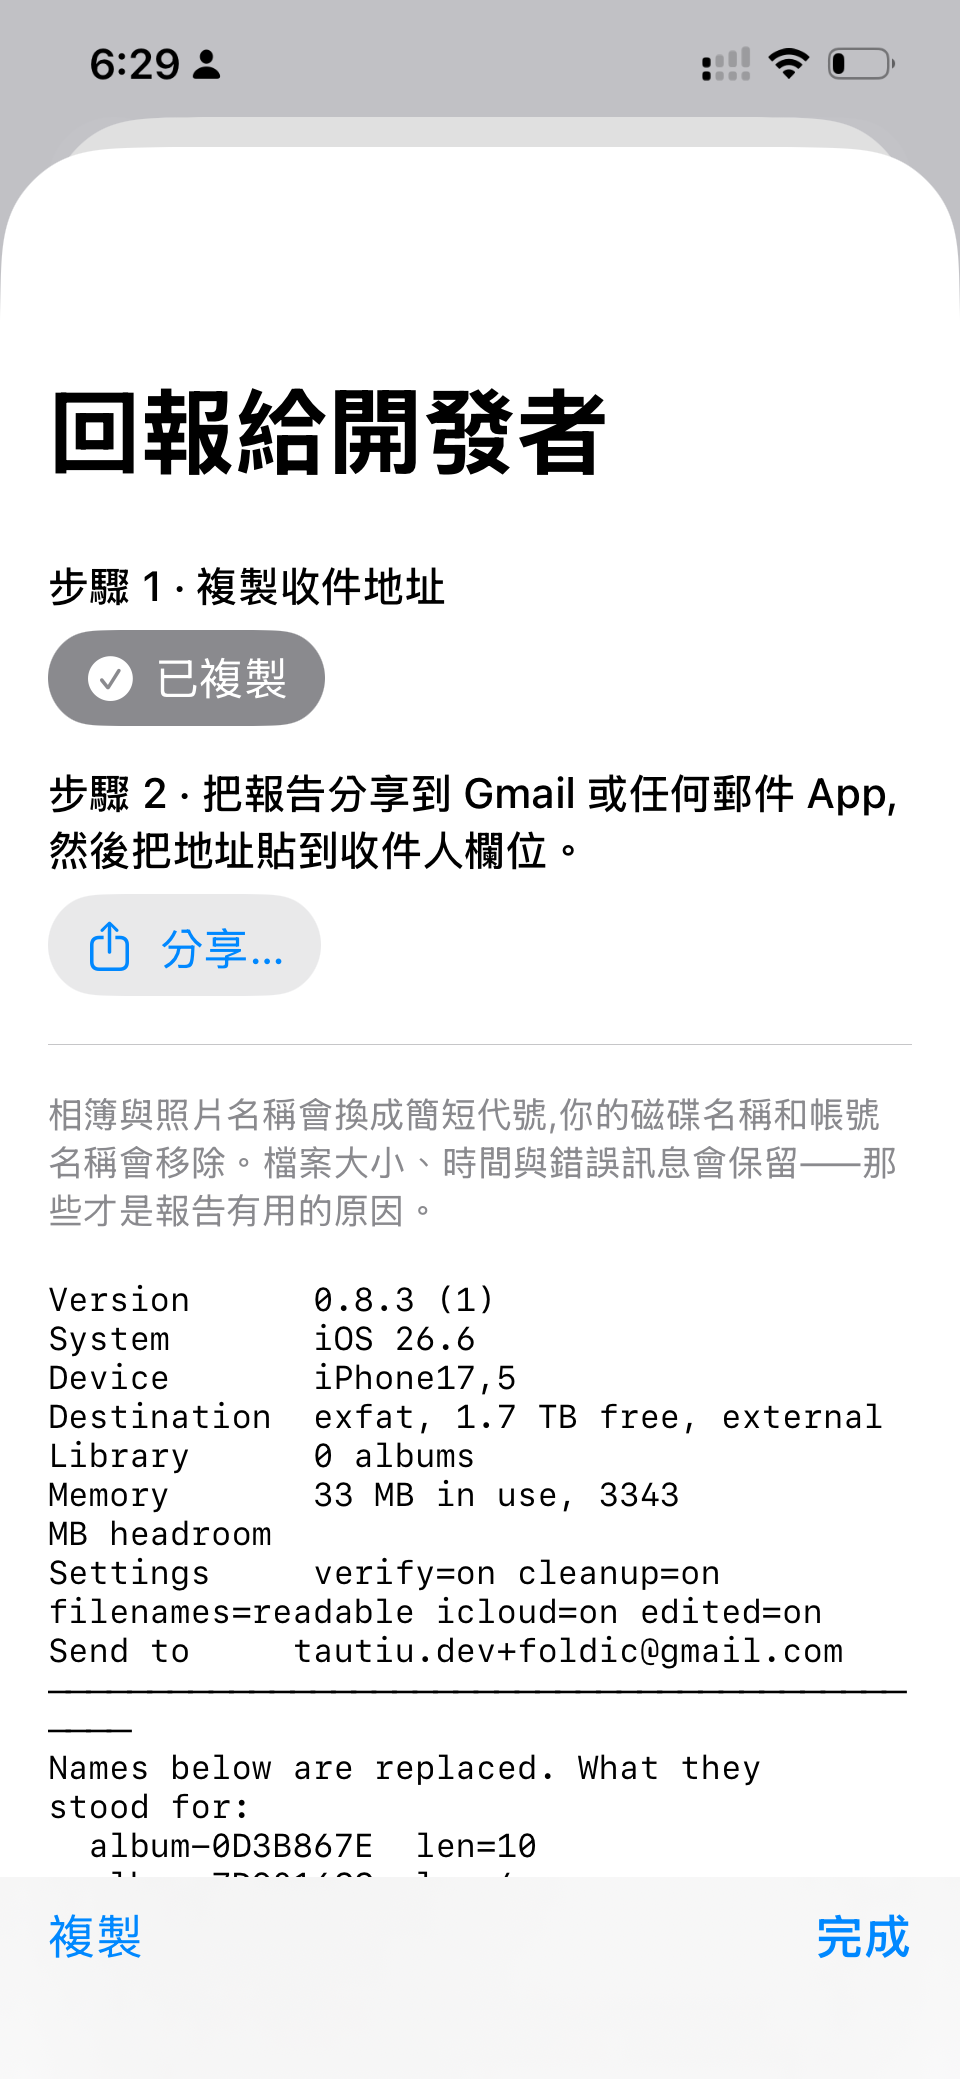
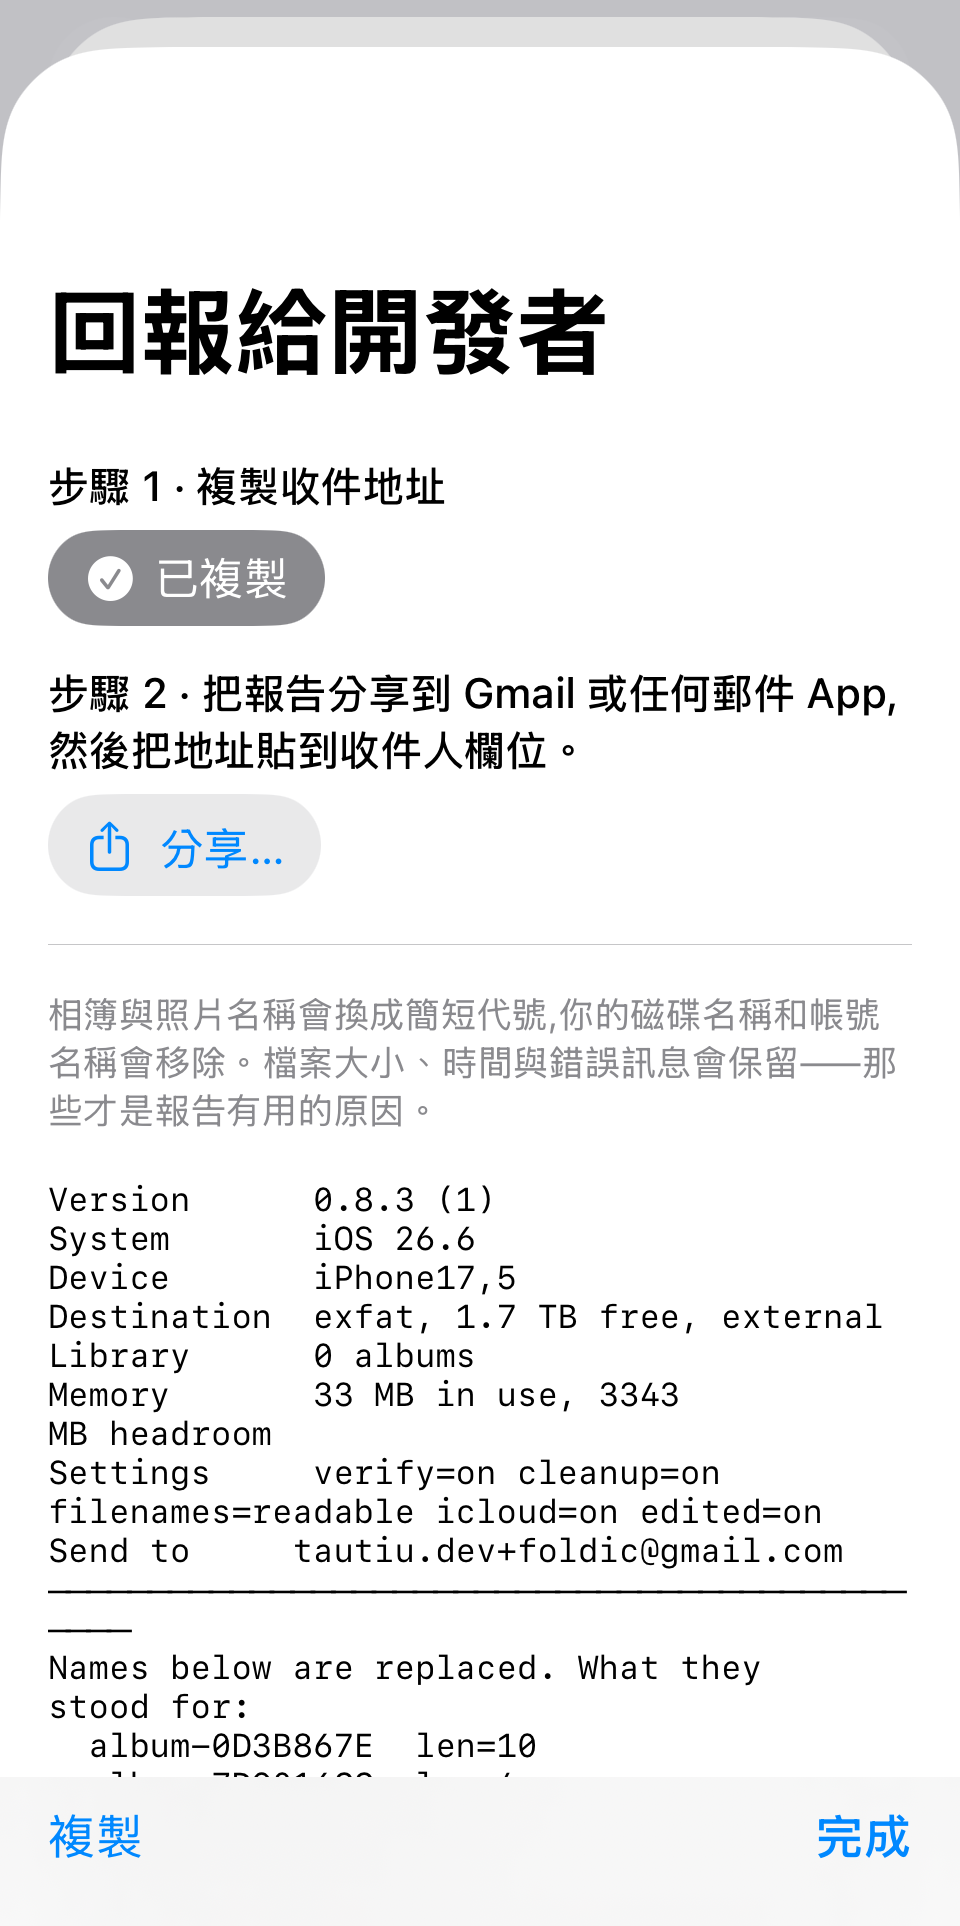
Note: crop the status bar off both screenshots, and the dead space below
The second one was advertising a nearly empty battery, which is not the impression
a note about care should leave. Both are cropped 100px from the top — below the
status bar, above the sheet's rounded edge, so the corners still read as corners.

The log screenshot also lost the blank two-thirds under its three lines: it is
960x683 now instead of 960x2079, which stops it dominating the article for no
reason. The crop boundary is found by scanning up for the last row that carries
real text rather than by a fixed number, because a first attempt using a lighter
threshold caught the sheet's own pale bottom edge and cropped nothing.

Both images' width and height attributes now match their files, per image rather
than shared.

diff --git a/notes/nothing-about-you/index.html b/notes/nothing-about-you/index.html
@@ -158,7 +158,7 @@
       <p>File names keep the identifier and lose the human part: <code>IMG_8136-992A6B204A32.jpg</code> becomes <code>photo-992A6B204A32.jpg</code>. The extension stays, because a HEIC, a MOV and a JPEG fail in different ways.</p>
 
       <figure class="shot phone">
-        <img src="/notes/nothing-about-you/report.png" alt="Two numbered steps. The address is copied first because the share sheet can attach the report but cannot fill in a recipient — on any platform." width="960" height="2079" loading="lazy">
+        <img src="/notes/nothing-about-you/report.png" alt="Two numbered steps. The address is copied first because the share sheet can attach the report but cannot fill in a recipient — on any platform." width="960" height="1926" loading="lazy">
         <figcaption>Two numbered steps. The address is copied first because the share sheet can attach the report but cannot fill in a recipient — on any platform.</figcaption>
       </figure>
 
@@ -171,7 +171,7 @@
       <p>Which is why the report is shown to you, in full, before it goes anywhere. That is the actual guarantee: a redaction whose result you can read is worth more than one that claims perfection and cannot be checked. And nothing is ever sent automatically, by any path, at any time.</p>
 
       <figure class="shot phone">
-        <img src="/notes/nothing-about-you/log.png" alt="The log the way you see it, with your own album names intact. The report is the redacted version of this." width="960" height="2079" loading="lazy">
+        <img src="/notes/nothing-about-you/log.png" alt="The log the way you see it, with your own album names intact. The report is the redacted version of this." width="960" height="683" loading="lazy">
         <figcaption>The log the way you see it, with your own album names intact. The report is the redacted version of this.</figcaption>
       </figure>
 
@@ -201,7 +201,7 @@
       <p>檔名則是留下識別碼、去掉屬於人的那一半:<code>IMG_8136-992A6B204A32.jpg</code> 變成 <code>photo-992A6B204A32.jpg</code>。副檔名保留,因為 HEIC、MOV、JPEG 壞起來的樣子各不相同。</p>
 
       <figure class="shot phone">
-        <img src="/notes/nothing-about-you/report.png" alt="兩個編號的步驟。先複製地址,是因為分享面板能帶附件但不能填收件人——任何平台都不行。" width="960" height="2079" loading="lazy">
+        <img src="/notes/nothing-about-you/report.png" alt="兩個編號的步驟。先複製地址,是因為分享面板能帶附件但不能填收件人——任何平台都不行。" width="960" height="1926" loading="lazy">
         <figcaption>兩個編號的步驟。先複製地址,是因為分享面板能帶附件但不能填收件人——任何平台都不行。</figcaption>
       </figure>
 
@@ -214,7 +214,7 @@
       <p>所以報告在送出去之前,會完整地先給你看。那才是真正的保證:一份你讀得到結果的去識別化,勝過一份宣稱完美卻無從檢查的。而且不管走哪條路、在什麼時候,都不會自動送出任何東西。</p>
 
       <figure class="shot phone">
-        <img src="/notes/nothing-about-you/log.png" alt="你自己看到的記錄,相簿名稱原封不動。報告是這份內容去識別化之後的版本。" width="960" height="2079" loading="lazy">
+        <img src="/notes/nothing-about-you/log.png" alt="你自己看到的記錄,相簿名稱原封不動。報告是這份內容去識別化之後的版本。" width="960" height="683" loading="lazy">
         <figcaption>你自己看到的記錄,相簿名稱原封不動。報告是這份內容去識別化之後的版本。</figcaption>
       </figure>
 
@@ -245,7 +245,7 @@
       <p>ファイル名は逆方向から同じことをします。<code>IMG_8136-992A6B204A32.jpg</code> は <code>photo-992A6B204A32.jpg</code> になります。識別子の側はもともと私的ではなくログにも入っているので、残しておけば一つのファイルを行をまたいで追えます。拡張子も残します。HEIC と MOV と JPEG では壊れ方が違うからです。</p>
 
       <figure class="shot phone">
-        <img src="/notes/nothing-about-you/report.png" alt="番号のついた二つの手順。先に宛先をコピーするのは、共有シートがファイルは添付できても宛先は入れられないからです。どのプラットフォームでもそうです。" width="960" height="2079" loading="lazy">
+        <img src="/notes/nothing-about-you/report.png" alt="番号のついた二つの手順。先に宛先をコピーするのは、共有シートがファイルは添付できても宛先は入れられないからです。どのプラットフォームでもそうです。" width="960" height="1926" loading="lazy">
         <figcaption>番号のついた二つの手順。先に宛先をコピーするのは、共有シートがファイルは添付できても宛先は入れられないからです。どのプラットフォームでもそうです。</figcaption>
       </figure>
 
@@ -258,7 +258,7 @@
       <p>だからレポートは、どこかへ行く前に全文をあなたに見せます。それが本当の保証です。<strong>結果を読める匿名化のほうが、完全だと主張して確かめられないものより価値があります</strong>——そして、どの経路でも、いつでも、自動送信されるものはありません。</p>
 
       <figure class="shot phone">
-        <img src="/notes/nothing-about-you/log.png" alt="あなたが見るログ。アルバム名はそのままです。レポートはこれを匿名化したものです。" width="960" height="2079" loading="lazy">
+        <img src="/notes/nothing-about-you/log.png" alt="あなたが見るログ。アルバム名はそのままです。レポートはこれを匿名化したものです。" width="960" height="683" loading="lazy">
         <figcaption>あなたが見るログ。アルバム名はそのままです。レポートはこれを匿名化したものです。</figcaption>
       </figure>
 
@@ -289,7 +289,7 @@
       <p>파일 이름은 반대 방향에서 같은 일을 합니다. <code>IMG_8136-992A6B204A32.jpg</code>는 <code>photo-992A6B204A32.jpg</code>가 됩니다. 식별자 쪽은 애초에 사적이지 않고 로그에도 이미 있으므로, 남겨 두면 한 파일을 여러 줄에 걸쳐 따라갈 수 있습니다. 확장자도 남깁니다. HEIC와 MOV와 JPEG는 다르게 실패하기 때문입니다.</p>
 
       <figure class="shot phone">
-        <img src="/notes/nothing-about-you/report.png" alt="번호가 붙은 두 단계. 주소를 먼저 복사하는 이유는 공유 시트가 파일은 첨부할 수 있어도 받는 사람은 채울 수 없기 때문입니다. 어느 플랫폼에서나 그렇습니다." width="960" height="2079" loading="lazy">
+        <img src="/notes/nothing-about-you/report.png" alt="번호가 붙은 두 단계. 주소를 먼저 복사하는 이유는 공유 시트가 파일은 첨부할 수 있어도 받는 사람은 채울 수 없기 때문입니다. 어느 플랫폼에서나 그렇습니다." width="960" height="1926" loading="lazy">
         <figcaption>번호가 붙은 두 단계. 주소를 먼저 복사하는 이유는 공유 시트가 파일은 첨부할 수 있어도 받는 사람은 채울 수 없기 때문입니다. 어느 플랫폼에서나 그렇습니다.</figcaption>
       </figure>
 
@@ -302,7 +302,7 @@
       <p>그래서 리포트는 어디로 가기 전에 전문을 당신에게 보여 줍니다. 그것이 진짜 보증입니다. <strong>결과를 읽을 수 있는 익명화가, 완전하다고 주장하면서 확인할 수 없는 것보다 가치 있습니다</strong> — 그리고 어떤 경로로도, 어떤 순간에도 자동으로 전송되는 것은 없습니다.</p>
 
       <figure class="shot phone">
-        <img src="/notes/nothing-about-you/log.png" alt="당신이 보는 로그. 앨범 이름은 그대로입니다. 리포트는 이것을 익명화한 버전입니다." width="960" height="2079" loading="lazy">
+        <img src="/notes/nothing-about-you/log.png" alt="당신이 보는 로그. 앨범 이름은 그대로입니다. 리포트는 이것을 익명화한 버전입니다." width="960" height="683" loading="lazy">
         <figcaption>당신이 보는 로그. 앨범 이름은 그대로입니다. 리포트는 이것을 익명화한 버전입니다.</figcaption>
       </figure>
 
